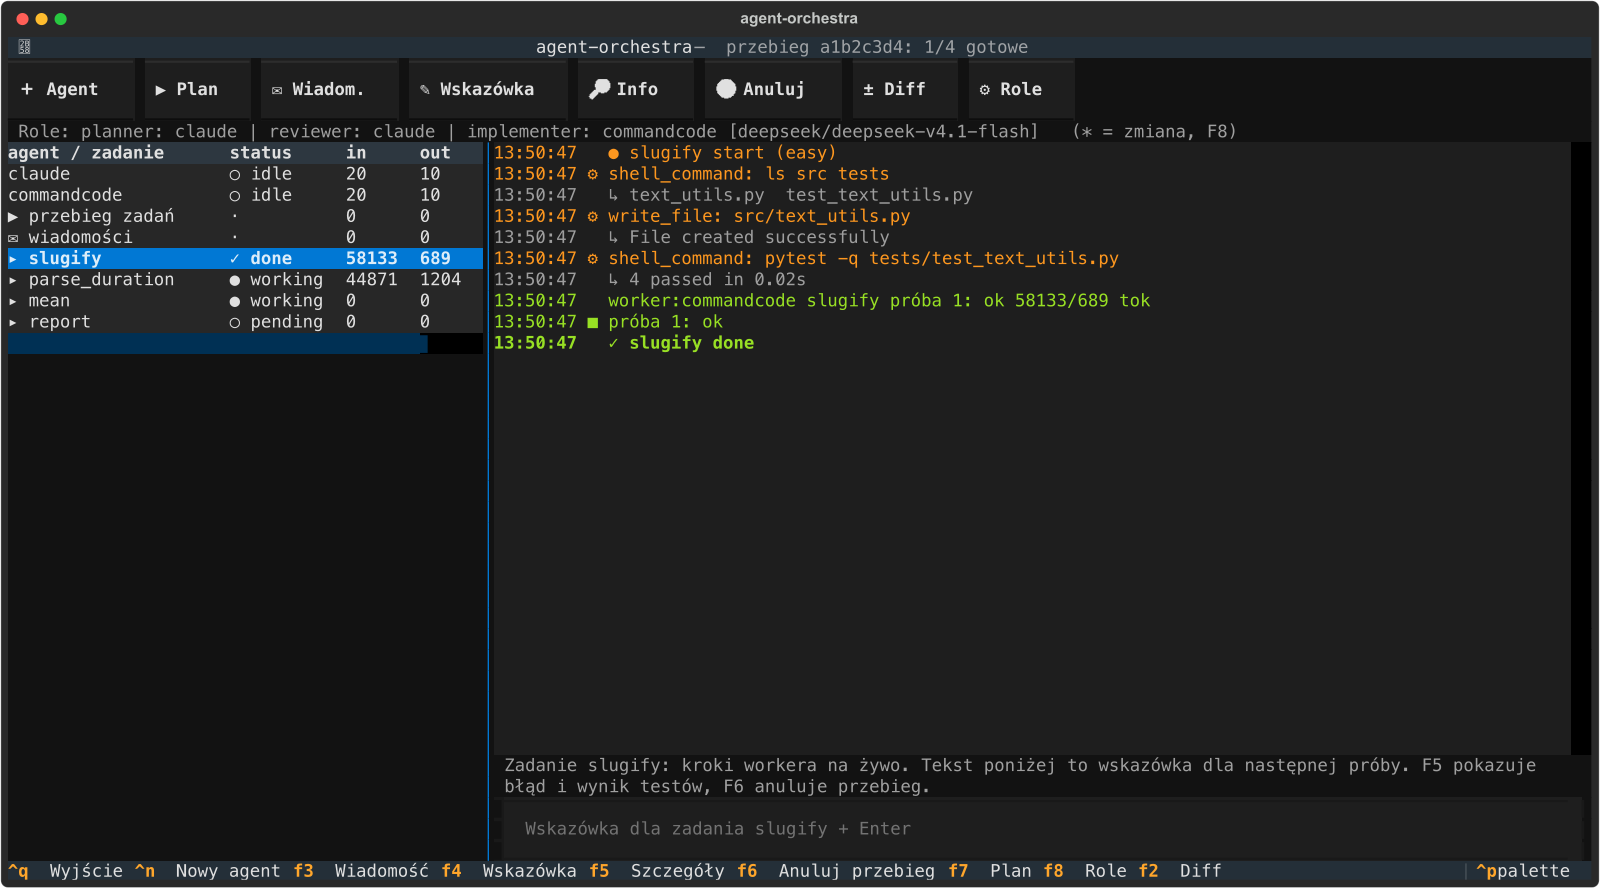
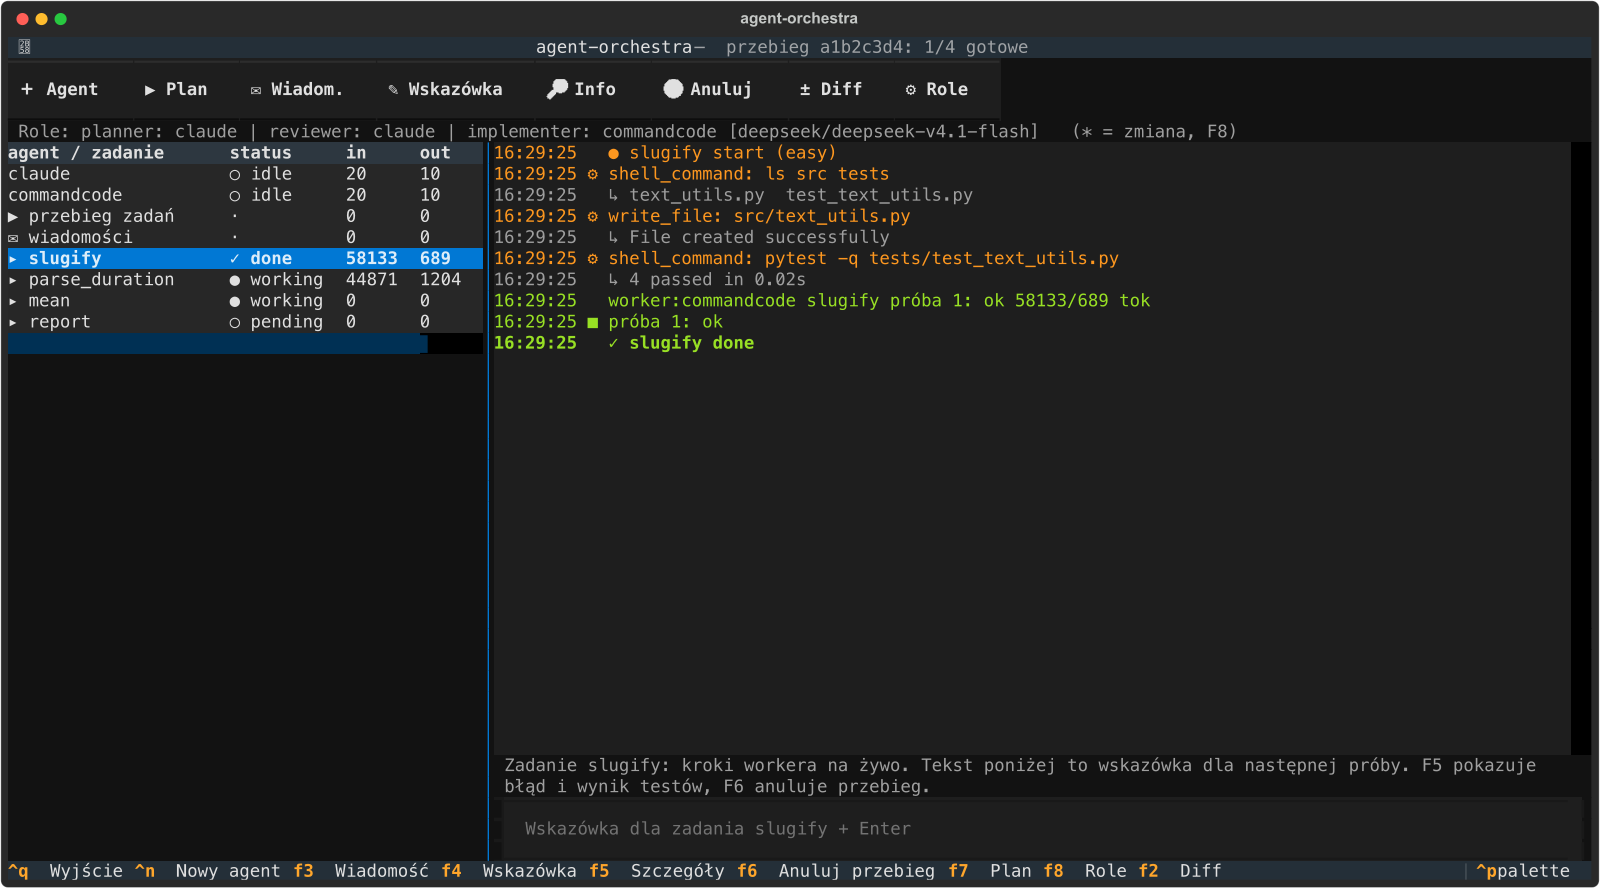
README: zrzuty okien Role i Plan, poprawki tekstów w TUI
Okno Role: krótsze opisy (ucinały się). Okno Plan: bez pogrubienia nazwy agenta (znikała spacja). Odświeżone zrzuty.

diff --git a/src/orchestra/tui.py b/src/orchestra/tui.py
@@ -244,11 +244,11 @@ class RolesScreen(ModalScreen[tuple[dict[str, str], dict[str, str]] | None]):
 
     def compose(self) -> ComposeResult:
         with Vertical(id="roles-box"):
-            yield Label("Kto pełni role. Agent bez binarki w PATH zostanie zastąpiony pierwszym dostępnym.")
+            yield Label("Kto pełni role (brak agenta w PATH: zastąpi go inny)")
             for role in ROLE_NAMES:
                 yield Label(self.LABEL[role])
                 yield Select(self._options(), value=self.cfg.role_name(role), allow_blank=False, id=f"role-{role}")
-            yield Label("Model agenta (pusto: domyślny agenta). Format zależy od agenta, np. provider/model")
+            yield Label("Model wybranego agenta (pusto: domyślny)")
             first = self.cfg.role_name("implementer")
             yield Select(self._options(), value=first if first in self.cfg.agents else next(iter(self.cfg.agents)),
                          allow_blank=False, id="model-agent")
@@ -294,10 +294,10 @@ class PlanScreen(ModalScreen[tuple[str, str] | None]):
 
     def compose(self) -> ComposeResult:
         with Vertical(id="plan-box"):
-            yield Label(f"Cel: agent [b]{self.planner}[/b] rozbije go na zadania i workery je wykonają")
+            yield Label(f"Cel: planner ({self.planner}) rozbije go na zadania")
             yield Input(placeholder="np. dodaj walidację e-maili wraz z testami", id="plan-goal")
             yield Button("Zaplanuj i uruchom", id="plan-goal-ok", variant="success")
-            yield Label("Albo własny podział: plik planu JSON (szablon: orchestra init-plan)")
+            yield Label("Albo własny podział: plik planu JSON (szablon: init-plan)")
             yield Input(value=self.default_file, placeholder="ścieżka do plan.json", id="plan-file")
             yield Button("Uruchom plan z pliku", id="plan-file-ok", variant="primary")
             yield Button("Anuluj", id="plan-cancel")

diff --git a/scripts/make_screenshot.py b/scripts/make_screenshot.py
@@ -117,6 +117,28 @@ async def main() -> None:
         await pilot.pause(0.4)
         save(app, "tui-new-agent")
 
+    # bez Claude'a: rola planner i reviewer przechodzi na dostępnego agenta, okna Role i Plan
+    absent = ("claude", "codex")  # tych binarek "nie ma", więc role przechodzą na commandcode
+    missing = {k: AgentConfig(name=k, acp=tuple(MOCK), headless=("nie-ma-w-path", "{task}") if k in absent
+                              else (sys.executable, "{task}"), tier=a.tier, default_model=a.default_model)
+               for k, a in cfg.agents.items()}
+    cfg2 = Config(agents=missing, roles=dict(cfg.roles), fallback_order=("claude", "commandcode", "opencode", "codex"))
+    store2 = EventStore(tmp / "events2.db")
+    specs2 = [AgentSpec("commandcode", MOCK, str(tmp / "commandcode"))]
+    app2 = OrchestraApp(store2, Controller(store2, specs2), poll_s=0.05, config=cfg2, repo=repo)
+    async with app2.run_test(size=(150, 40)) as pilot:
+        await pilot.pause(1.0)
+        await pilot.press("f8")
+        await pilot.pause(0.5)
+        save(app2, "tui-roles")
+        await pilot.press("escape")
+        await pilot.pause(0.3)
+        await pilot.press("f7")
+        await pilot.pause(0.5)
+        app2.screen.query_one("#plan-goal").value = "dodaj walidację e-maili wraz z testami pytest"
+        await pilot.pause(0.2)
+        save(app2, "tui-plan")
+
     watch = WatchApp(store, poll_s=0.05)
     async with watch.run_test(size=(150, 36)) as pilot:
         await pilot.pause(0.6)

diff --git a/README.md b/README.md
@@ -73,6 +73,10 @@ Claude is the default, not a requirement. Everything has a fallback, and everyth
 
 **Roles with a fallback.** `planner`, `reviewer` and `implementer` point at agents in `agents.toml`. If the configured agent is not installed, the role moves to the first available one (planners and reviewers prefer a `strong` tier, workers a `cheap` tier, then the order of `fallback_order`). The bar under the toolbar shows who does what, and `*` marks a change from `agents.toml`. **⚙ Role** (F8) lets you pick any agent for each role and set its model, and `orchestra roles` does the same from the shell. The choice is saved in `.orchestra/roles.json` and applies to the next run, including runs started from Claude Code, OpenCode or Codex. A weaker planner splits tasks worse, which is the price of not having a strong model.
 
+![Role bar with a fallback and the Role dialog](docs/tui-roles.png)
+
+The screenshot is a demo where `claude` and `codex` are missing from PATH, so the roles moved to Command Code (`*`).
+
 **Your own provider or model.** Add any CLI that can take a task and edit files in the current directory, in `~/.config/orchestra/agents.toml` (all repos) or `<repo>/.orchestra/agents.toml` (one repo). Entries are merged over `agents.toml`:
 
 ```toml
@@ -86,6 +90,8 @@ implementer = "mycli"
 ```
 
 **Your own split.** Skip the planner entirely: `orchestra init-plan plan.json`, edit it, then `orchestra run plan.json` or **▶ Plan** in the TUI.
+
+![The Plan dialog: a goal for the planner or your own plan file](docs/tui-plan.png)
 
 | Client | Status |
 | --- | --- |

diff --git a/README.pl.md b/README.pl.md
@@ -71,6 +71,10 @@ Claude jest domyślny, ale nie wymagany. Wszystko ma fallback i wszystko da się
 
 **Role z fallbackiem.** `planner`, `reviewer` i `implementer` wskazują agentów z `agents.toml`. Jeśli wskazany agent nie jest zainstalowany, rola przechodzi na pierwszego dostępnego (planner i reviewer wolą poziom `strong`, worker `cheap`, potem kolejność z `fallback_order`). Pasek pod przyciskami pokazuje, kto co robi, a `*` oznacza zmianę względem `agents.toml`. **⚙ Role** (F8) pozwala wybrać dowolnego agenta dla każdej roli i ustawić jego model, to samo robi `orchestra roles` w terminalu. Wybór zapisuje się w `.orchestra/roles.json` i obowiązuje od następnego przebiegu, także tych uruchomionych z Claude Code, OpenCode albo Codex. Słabszy planner gorzej dzieli zadania, taka jest cena braku mocnego modelu.
 
+![Pasek ról z fallbackiem i okno Role](docs/tui-roles.png)
+
+Zrzut pochodzi z dema, w którym `claude` i `codex` nie ma w PATH, więc role przeszły na Command Code (`*`).
+
 **Własny provider albo model.** Dopisz dowolne CLI, które przyjmuje zadanie i edytuje pliki w bieżącym katalogu, w `~/.config/orchestra/agents.toml` (wszystkie repo) albo `<repo>/.orchestra/agents.toml` (jedno repo). Wpisy nakładają się na `agents.toml`:
 
 ```toml
@@ -84,6 +88,8 @@ implementer = "mycli"
 ```
 
 **Własny podział.** Możesz pominąć plannera: `orchestra init-plan plan.json`, edycja, potem `orchestra run plan.json` albo **▶ Plan** w TUI.
+
+![Okno Plan: cel dla plannera albo własny plik planu](docs/tui-plan.png)
 
 | Klient | Stan |
 | --- | --- |
